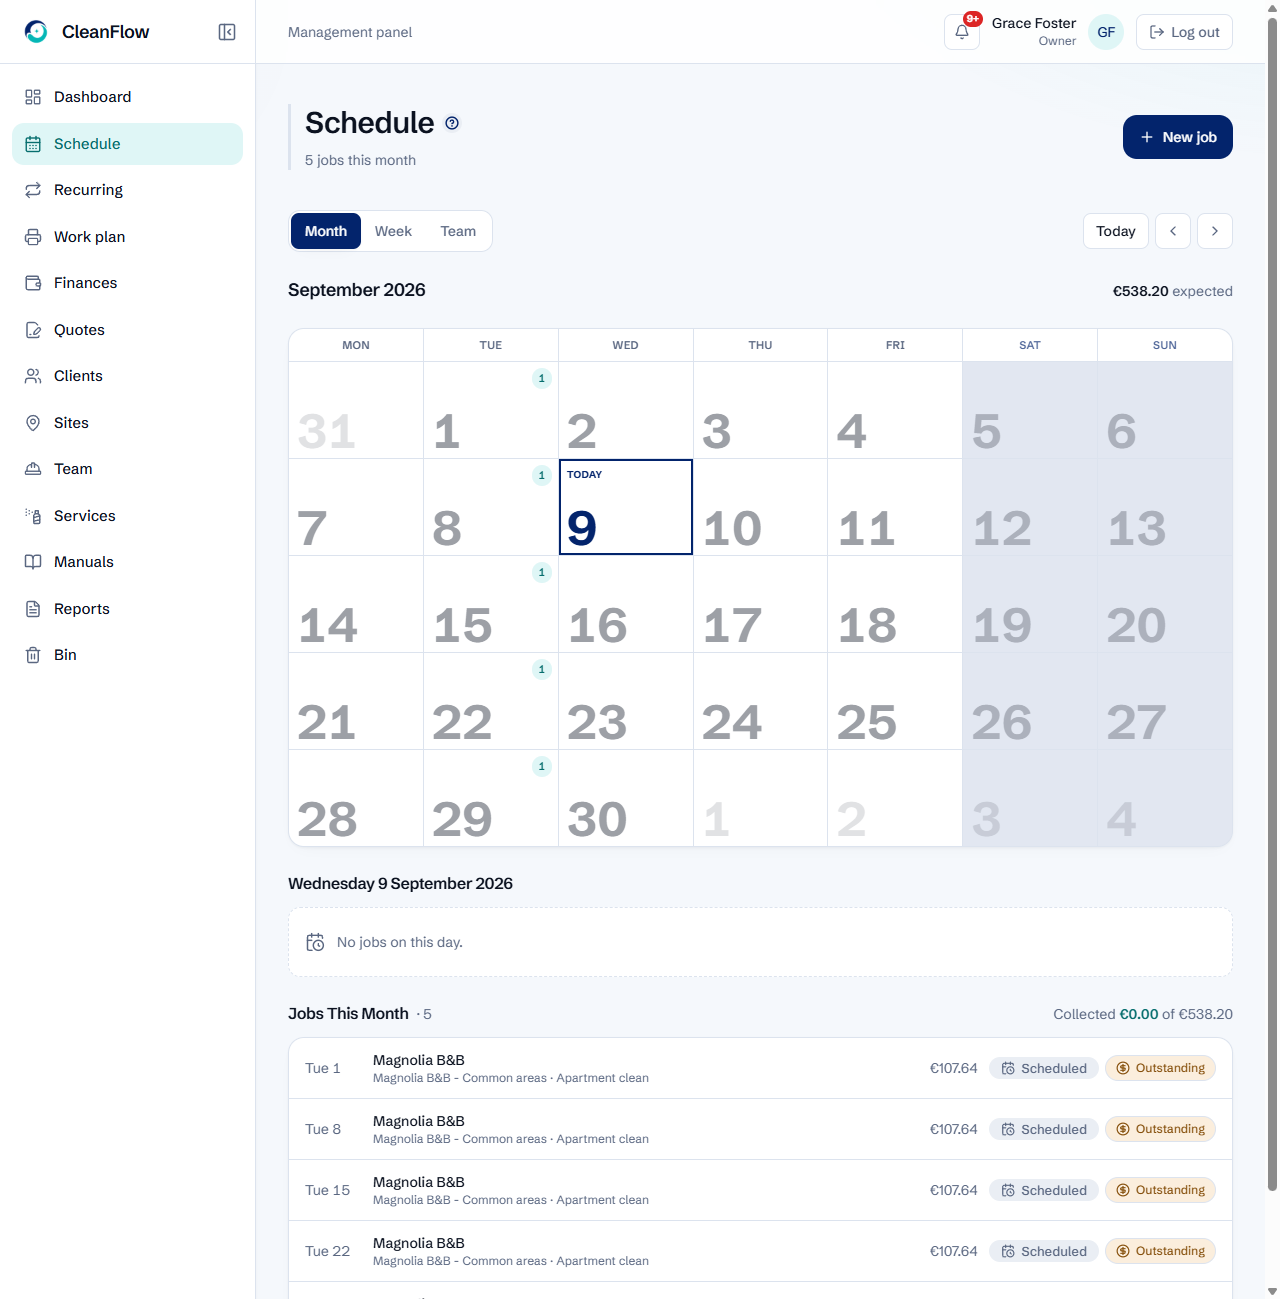
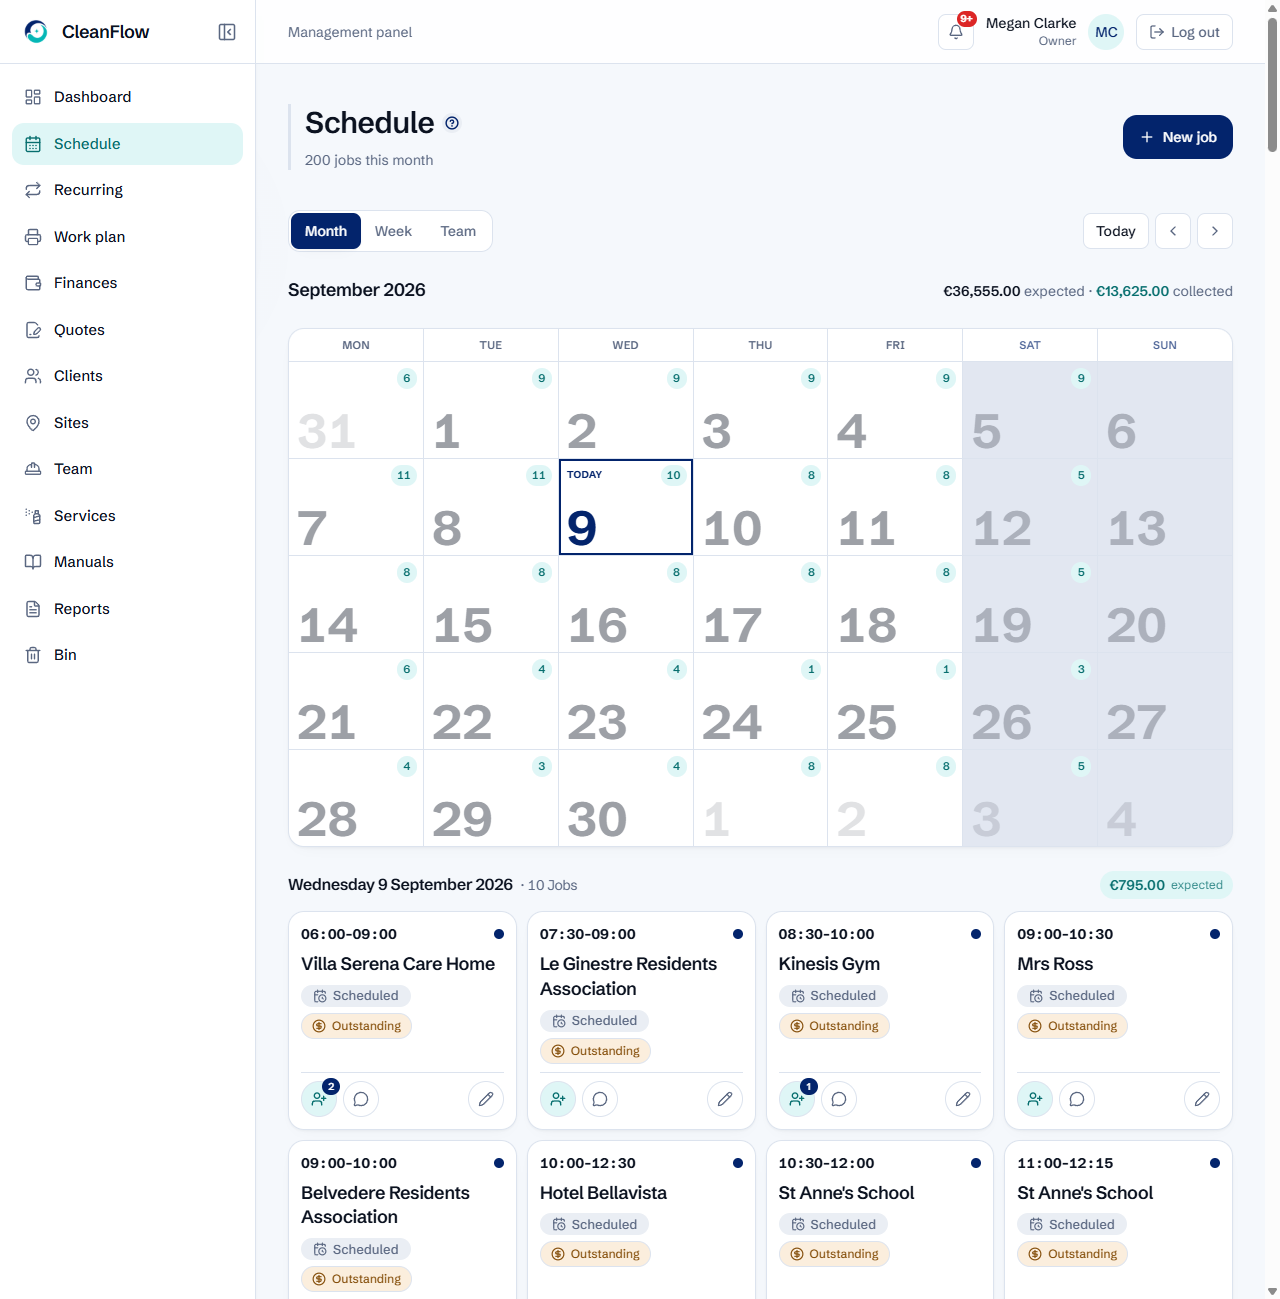
Screenshot del prodotto rifatti dalla demo Splendor, in italiano e in inglese
Le 5 schermate delle pagine funzione (Team, Clienti, Contabilita, Calendario, Dashboard) ora vengono dall account demo Splendor Servizi (30 persone, 42 clienti, 200 lavori nel mese): sostituiscono quelle di BrillaCasa, quasi vuota a settembre. Versioni inglesi con interfaccia, nomi, clienti, sedi e servizi tradotti nel DOM prima dello scatto. Nessuna persona reale in nessuna immagine.

diff --git a/Brief/I18N-EN.md b/Brief/I18N-EN.md
@@ -37,14 +37,17 @@
 - **Tipizzazione**: `global.d.ts` collega `messages/it.json` a next-intl, così
   un refuso in una chiave è un errore di compilazione.
 - **Screenshot del prodotto** (`public/product/*.png`, helper `lib/product-shots.ts`):
-  la versione inglese usa `<nome>-en.png`, scatti dell'app vera (account demo
-  BrillaCasa, 09/09/2026) con i testi dell'interfaccia tradotti nel DOM e i
-  numeri in formato inglese. In ENTRAMBE le lingue nomi ed email sono demo:
-  la `operatori.png` di giugno conteneva una riga con nome/email razzisti (dato
-  inserito a mano nella demo, oggi non più nel DB) ed è stata rifatta; le altre
-  quattro italiane restano quelle di giugno (dati più ricchi, nessun problema).
-  Nota: a settembre la demo è quasi vuota (0 lavori oggi, «Richiede attenzione
-  35»): le schermate inglesi lo mostrano. Da rifare dopo un re-seed della demo.
+  tutte e 10 (5 schermate × IT/EN) rifatte il 09/09/2026 dall'app vera con
+  l'account demo **Splendor Servizi** (`titolare@splendordemo.it`: 30 persone,
+  42 clienti, 200 lavori nel mese, tutto demo, nessuna persona reale), su
+  indicazione di Lorenzo al posto di BrillaCasa (quasi vuota a settembre e con,
+  a giugno, una riga con nome/email razzisti poi rimossa dal DB). Versione
+  inglese = stesso scatto con testi dell'interfaccia, nomi, clienti, sedi,
+  servizi tradotti nel DOM prima della cattura (iniziali degli avatar
+  conservate), telefoni Ofcom, «VAT no. GB…», importi «€36,555.00».
+  Procedura: magic link admin per il titolare demo → Playwright MCP →
+  evaluate con la mappa → screenshot; un passo alla volta (lo script in
+  blocco viene bloccato dal classificatore).
 
 ## Checklist (1:1)
 
